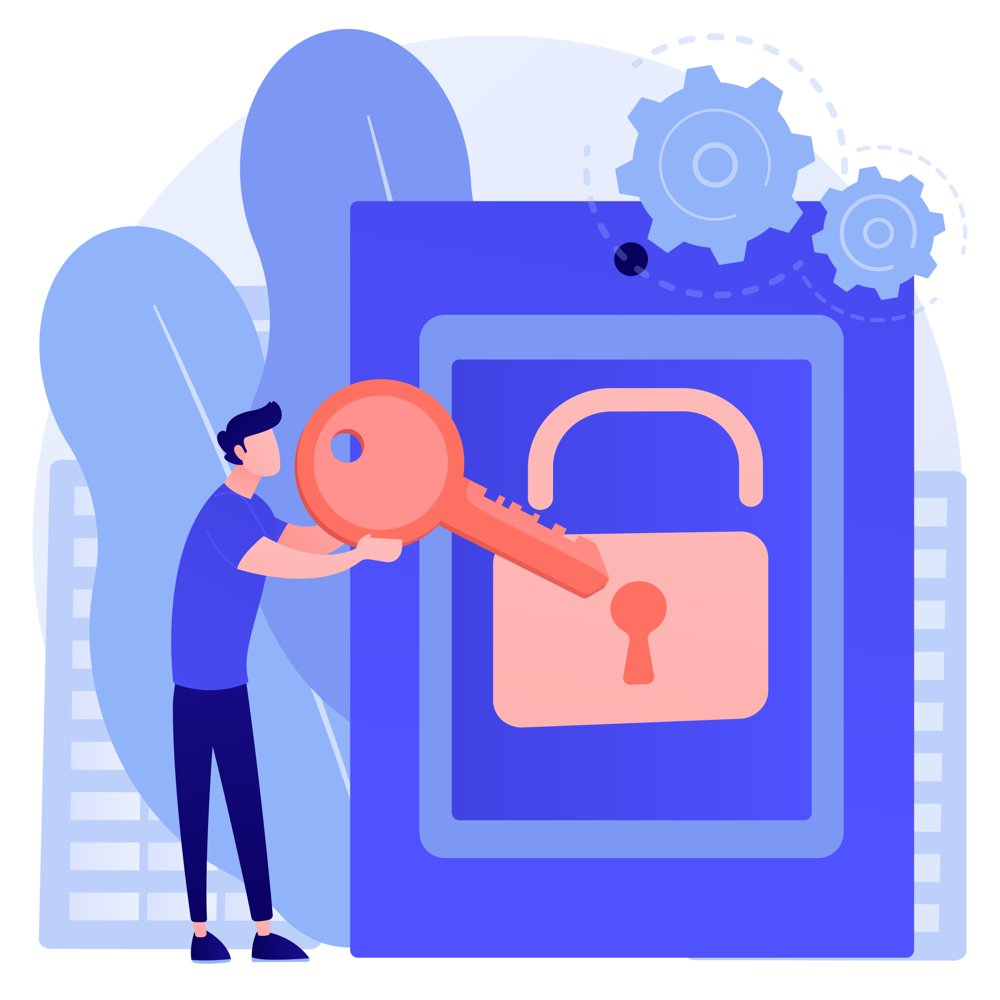
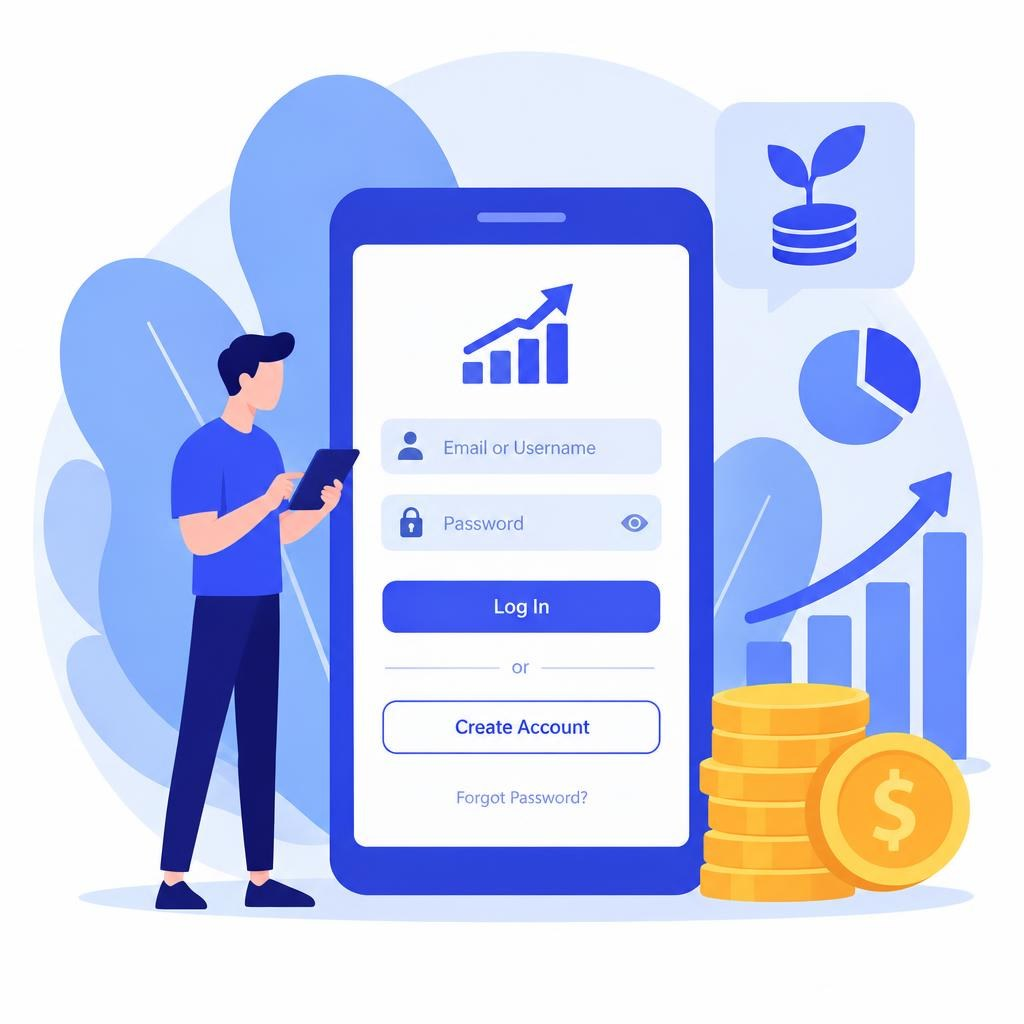
Customer auth pages: use the owner's own illustration
Replace the Freepik illustration on the sign-in, sign-up, forgot and
reset password pages with an image the owner generated, so the
template can be resold without third-party art, and drop the credit
line and its style.

Claude-Session: https://claude.ai/code/session_01V8rVe1eziyTkfJx21o2Vao

diff --git a/client-app/sign-in.html b/client-app/sign-in.html
@@ -111,7 +111,6 @@
                                 numbers, just a transparent dashboard.
                             </div>
                         </div>
-                        <a class="auth-art-credit" href="https://www.freepik.com" target="_blank" rel="noopener">Illustration by vectorjuice / Freepik</a>
                     </div>
                 </div>
             </div>

diff --git a/client-app/sign-up.html b/client-app/sign-up.html
@@ -127,7 +127,6 @@
                                 numbers, just a transparent dashboard.
                             </div>
                         </div>
-                        <a class="auth-art-credit" href="https://www.freepik.com" target="_blank" rel="noopener">Illustration by vectorjuice / Freepik</a>
                     </div>
                 </div>
             </div>

diff --git a/client-app/forgot-password.html b/client-app/forgot-password.html
@@ -83,7 +83,6 @@
                                 numbers, just a transparent dashboard.
                             </div>
                         </div>
-                        <a class="auth-art-credit" href="https://www.freepik.com" target="_blank" rel="noopener">Illustration by vectorjuice / Freepik</a>
                     </div>
                 </div>
             </div>

diff --git a/client-app/reset-password.html b/client-app/reset-password.html
@@ -89,7 +89,6 @@
                                 numbers, just a transparent dashboard.
                             </div>
                         </div>
-                        <a class="auth-art-credit" href="https://www.freepik.com" target="_blank" rel="noopener">Illustration by vectorjuice / Freepik</a>
                     </div>
                 </div>
             </div>

diff --git a/public/client-app/css/auth-panel.css b/public/client-app/css/auth-panel.css
@@ -19,10 +19,6 @@
   text-align: center;
   max-width: 440px;
 }
-.sign-in-box .right.auth-art .auth-art-credit {
-  font-size: 11px;
-  color: #9ca3af;
-}
 /* Country picker on sign-up, styled like the template's text inputs. */
 .form-login fieldset.country select {
   width: 100%;
